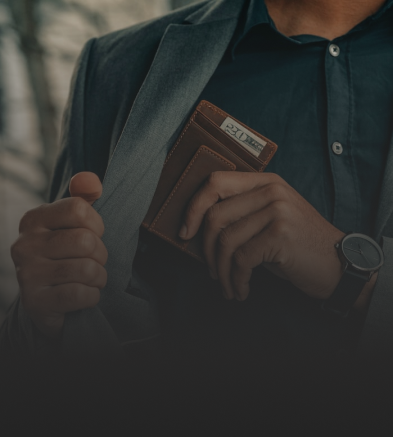
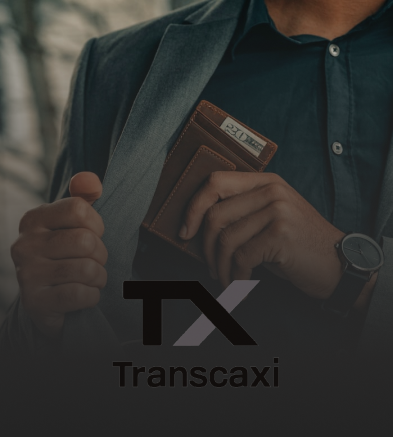
Created Authentication Forms

Changed region(s): [[0.3053, 0.6247, 0.6718, 0.8032], [0.3053, 0.8032, 0.7328, 0.8924]]

diff --git a/lib/widgets/forms/sign_up_form.dart b/lib/widgets/forms/sign_up_form.dart
@@ -1,0 +1,89 @@
+import 'package:flutter/material.dart';
+import 'package:transacxi/constants/managers/spacing_manager.dart';
+
+import '../../constants/managers/asset_manager.dart';
+import '../../constants/managers/string_manager.dart';
+import '../../constants/managers/text_style_manager.dart';
+import '../../constants/screen_size.dart';
+import '../../handlers/auth_view_handler.dart';
+
+class SignUpForm extends StatefulWidget {
+  const SignUpForm({super.key});
+
+  @override
+  State<SignUpForm> createState() => _SignUpFormState();
+}
+
+class _SignUpFormState extends State<SignUpForm> {
+  final _authViewState = AuthViewStateHandler();
+  @override
+  Widget build(BuildContext context) {
+    return SizedBox(
+      width: ScreenSize.width,
+      height: ScreenSize.height,
+      child: Stack(
+        alignment: Alignment.center,
+        children: [
+          Positioned(top: 0, child: Image.asset(AssetManager.signUpBackground)),
+          Positioned(
+            top: SpacingManager.h315.height,
+            child: Container(
+              width: ScreenSize.width,
+              padding: EdgeInsets.symmetric(horizontal: SpacingManager.w30.width!),
+              child: Column(
+                children: [
+                  Align(
+                    alignment: Alignment.centerLeft,
+                    child: Container(
+                      margin: EdgeInsets.only(left: SpacingManager.w10.width!),
+                      padding: EdgeInsets.only(
+                        top: SpacingManager.h10.height!,
+                        bottom: SpacingManager.h10.height!,
+                        left: SpacingManager.w10.width!,
+                        right: SpacingManager.w50.width!,
+                      ),
+                      decoration: const BoxDecoration(border: Border(bottom: BorderSide(color: Color(0xFFb9b6b6)))),
+                      child: const Text(StringManager.signUp),
+                    ),
+                  ),
+                  SpacingManager.h20,
+                  const TextField(decoration: InputDecoration(hintText: StringManager.fulName)),
+                  SpacingManager.h10,
+                  const TextField(decoration: InputDecoration(hintText: StringManager.emailAddress)),
+                  SpacingManager.h10,
+                  const TextField(decoration: InputDecoration(hintText: StringManager.password)),
+                  SpacingManager.h10,
+                  const TextField(decoration: InputDecoration(hintText: StringManager.confirmPassword)),
+                  SpacingManager.h20,
+                  MaterialButton(
+                    onPressed: () {},
+                    color: const Color(0xFFFF0000),
+                    shape: const StadiumBorder(),
+                    padding: EdgeInsets.symmetric(vertical: SpacingManager.h10.height!),
+                    minWidth: SpacingManager.w316.width,
+                    child: const Text(StringManager.signUp, style: TextStyles.w400s11),
+                  ),
+                  SpacingManager.h30,
+                  Row(
+                    mainAxisAlignment: MainAxisAlignment.center,
+                    children: [
+                      SizedBox(width: SpacingManager.w20.width, child: const Divider()),
+                      SpacingManager.w10,
+                      const Text(StringManager.haveAccount, style: TextStyles.w500s10),
+                      GestureDetector(
+                        onTap: _authViewState.changeCurrentView,
+                        child: Text(StringManager.login, style: TextStyles.w500s10.copyWith(color: const Color(0xFFFF0000))),
+                      ),
+                      SpacingManager.w10,
+                      SizedBox(width: SpacingManager.w20.width, child: const Divider()),
+                    ],
+                  )
+                ],
+              ),
+            ),
+          ),
+        ],
+      ),
+    );
+  }
+}

diff --git a/lib/widgets/forms/login_form.dart b/lib/widgets/forms/login_form.dart
@@ -1,0 +1,85 @@
+import 'package:flutter/material.dart';
+
+import '../../constants/managers/asset_manager.dart';
+import '../../constants/managers/spacing_manager.dart';
+import '../../constants/managers/string_manager.dart';
+import '../../constants/managers/text_style_manager.dart';
+import '../../constants/screen_size.dart';
+import '../../handlers/auth_view_handler.dart';
+
+class LoginForm extends StatefulWidget {
+  const LoginForm({super.key});
+
+  @override
+  State<LoginForm> createState() => _LoginFormState();
+}
+
+class _LoginFormState extends State<LoginForm> {
+  final _authViewState = AuthViewStateHandler();
+  @override
+  Widget build(BuildContext context) {
+    return SizedBox(
+      width: ScreenSize.width,
+      height: ScreenSize.height,
+      child: Stack(
+        alignment: Alignment.center,
+        children: [
+          Positioned(top: 0, child: Image.asset(AssetManager.loginBackground)),
+          Positioned(
+            top: SpacingManager.h435.height,
+            child: Container(
+              width: ScreenSize.width,
+              padding: EdgeInsets.symmetric(horizontal: SpacingManager.w30.width!),
+              child: Column(
+                children: [
+                  Align(
+                    alignment: Alignment.centerLeft,
+                    child: Container(
+                      margin: EdgeInsets.only(left: SpacingManager.w10.width!),
+                      padding: EdgeInsets.only(
+                        top: SpacingManager.h10.height!,
+                        bottom: SpacingManager.h10.height!,
+                        left: SpacingManager.w10.width!,
+                        right: SpacingManager.w50.width!,
+                      ),
+                      decoration: const BoxDecoration(border: Border(bottom: BorderSide(color: Color(0xFFb9b6b6)))),
+                      child: const Text(StringManager.login),
+                    ),
+                  ),
+                  SpacingManager.h20,
+                  const TextField(decoration: InputDecoration(hintText: StringManager.emailAddress)),
+                  SpacingManager.h10,
+                  const TextField(decoration: InputDecoration(hintText: StringManager.password)),
+                  SpacingManager.h20,
+                  MaterialButton(
+                    onPressed: () {},
+                    color: const Color(0xFFFF0000),
+                    shape: const StadiumBorder(),
+                    padding: EdgeInsets.symmetric(vertical: SpacingManager.h10.height!),
+                    minWidth: SpacingManager.w316.width,
+                    child: const Text(StringManager.login, style: TextStyles.w400s11),
+                  ),
+                  SpacingManager.h30,
+                  Row(
+                    mainAxisAlignment: MainAxisAlignment.center,
+                    children: [
+                      SizedBox(width: SpacingManager.w20.width, child: const Divider()),
+                      SpacingManager.w10,
+                      const Text(StringManager.dontHaveAccount, style: TextStyles.w500s10),
+                      GestureDetector(
+                        onTap: _authViewState.changeCurrentView,
+                        child: Text(StringManager.signup, style: TextStyles.w500s10.copyWith(color: const Color(0xFFFF0000))),
+                      ),
+                      SpacingManager.w10,
+                      SizedBox(width: SpacingManager.w20.width, child: const Divider()),
+                    ],
+                  )
+                ],
+              ),
+            ),
+          ),
+        ],
+      ),
+    );
+  }
+}

diff --git a/lib/constants/managers/spacing_manager.dart b/lib/constants/managers/spacing_manager.dart
@@ -9,10 +9,13 @@ class SpacingManager {
   static final h10 = SizedBox(height: ScreenSize.height * 0.012);
   static final h15 = SizedBox(height: ScreenSize.height * 0.018);
   static final h18 = SizedBox(height: ScreenSize.height * 0.021);
+  static final h20 = SizedBox(height: ScreenSize.height * 0.024);
   static final h30 = SizedBox(height: ScreenSize.height * 0.034);
   static final h40 = SizedBox(height: ScreenSize.height * 0.047);
   static final h55 = SizedBox(height: ScreenSize.height * 0.064);
   static final h67 = SizedBox(height: ScreenSize.height * 0.079);
+  static final h315 = SizedBox(height: ScreenSize.height * 0.37);
+  static final h435 = SizedBox(height: ScreenSize.height * 0.511);
 
   static final w10 = SizedBox(width: ScreenSize.width * 0.025);
   static final w15 = SizedBox(width: ScreenSize.width * 0.038);
@@ -20,4 +23,5 @@ class SpacingManager {
   static final w25 = SizedBox(width: ScreenSize.width * 0.064);
   static final w30 = SizedBox(width: ScreenSize.width * 0.076);
   static final w50 = SizedBox(width: ScreenSize.width * 0.127);
+  static final w316 = SizedBox(width: ScreenSize.width * 0.804);
 }

diff --git a/lib/screens/auth_screen.dart b/lib/screens/auth_screen.dart
@@ -1,0 +1,34 @@
+import 'package:flutter/material.dart';
+
+import '../handlers/auth_view_handler.dart';
+import '../widgets/forms/login_form.dart';
+import '../widgets/forms/sign_up_form.dart';
+
+class AuthScreen extends StatefulWidget {
+  const AuthScreen({super.key});
+
+  @override
+  State<StatefulWidget> createState() => _AuthScreenState();
+}
+
+class _AuthScreenState extends State<AuthScreen> {
+  final _authViewState = AuthViewStateHandler();
+  @override
+  Widget build(BuildContext context) {
+    return SafeArea(
+      child: Scaffold(
+        body: ValueListenableBuilder(
+          valueListenable: _authViewState,
+          builder: (context, value, child) {
+            return AnimatedCrossFade(
+              firstChild: const LoginForm(),
+              secondChild: const SignUpForm(),
+              crossFadeState: value,
+              duration: const Duration(milliseconds: 400),
+            );
+          },
+        ),
+      ),
+    );
+  }
+}

diff --git a/lib/theme/app_theme.dart b/lib/theme/app_theme.dart
@@ -1,4 +1,5 @@
 import 'package:flutter/material.dart';
+import 'package:transacxi/constants/managers/text_style_manager.dart';
 
 class AppTheme {
   AppTheme._();
@@ -17,7 +18,16 @@ class AppTheme {
       surface: Color.fromRGBO(51, 51, 51, 1),
       onSurface: Color.fromRGBO(255, 255, 255, 1),
     ),
+    buttonTheme: const ButtonThemeData(shape: StadiumBorder()),
     bottomNavigationBarTheme: const BottomNavigationBarThemeData(showSelectedLabels: false, showUnselectedLabels: false, type: BottomNavigationBarType.fixed),
+    inputDecorationTheme: InputDecorationTheme(
+        fillColor: const Color(0xFFB9B6B6),
+        filled: true,
+        border: InputBorder.none,
+        enabledBorder: InputBorder.none,
+        disabledBorder: InputBorder.none,
+        errorBorder: InputBorder.none,
+        hintStyle: TextStyles.w400s9.copyWith(color: const Color(0xFF888888))),
     useMaterial3: true,
   );
 }

diff --git a/lib/constants/managers/string_manager.dart b/lib/constants/managers/string_manager.dart
@@ -2,8 +2,17 @@ class StringManager{
   StringManager._();
 
   static const addMoney = "Add Money";
+  static const confirmPassword = "Confirm Password";
+  static const dontHaveAccount = "I don't have an account ";
+  static const haveAccount = "Already have an account ";
+  static const emailAddress = "Email Address";
+  static const fulName = "Fullname";
+  static const login = "Login";
   static const naira = "₦";
+  static const password = "Password";
   static const recent = "Recent";
+  static const signup = "sign up";
+  static const signUp = "Sign Up";
   static const transfer = "Transfer";
   static const transactionHistory = "Transaction History";
 }

diff --git a/lib/handlers/auth_view_handler.dart b/lib/handlers/auth_view_handler.dart
@@ -1,0 +1,19 @@
+import 'dart:developer';
+
+import 'package:flutter/material.dart';
+
+class AuthViewStateHandler extends ValueNotifier<CrossFadeState> {
+  AuthViewStateHandler._internal() : super(CrossFadeState.showFirst);
+  static final _instance = AuthViewStateHandler._internal();
+  factory AuthViewStateHandler() => _instance;
+
+  void changeCurrentView() {
+    log(value.toString());
+    if (value == CrossFadeState.showFirst) {
+      value = CrossFadeState.showSecond;
+      return;
+    }
+    value = CrossFadeState.showFirst;
+    return;
+  }
+}

diff --git a/lib/main.dart b/lib/main.dart
@@ -1,7 +1,7 @@
 import 'package:flutter/material.dart';
 
 import 'helpers/global_variables.dart';
-import 'screens/navigation_screen.dart';
+import 'screens/auth_screen.dart';
 import 'theme/app_theme.dart';
 
 void main() {
@@ -16,7 +16,7 @@ class MyApp extends StatelessWidget {
     return MaterialApp(
       title: "Transcaxi",
       theme: AppTheme.primary,
-      home: const NavigationScreen(),
+      home: const AuthScreen(),
       navigatorKey: navigationKey,
     );
   }

diff --git a/lib/handlers/navigation_screen_handler.dart b/lib/handlers/navigation_screen_handler.dart
@@ -1,9 +1,9 @@
 import 'package:flutter/material.dart';
 
-class NavigationViewStateHandler extends ValueNotifier<int>{
-  NavigationViewStateHandler():super(0);
+class NavigationViewStateHandler extends ValueNotifier<int> {
+  NavigationViewStateHandler() : super(0);
 
-   void changeCurrentView(int newValue){
+  void changeCurrentView(int newValue) {
     value = newValue;
-   } 
+  }
 }

diff --git a/lib/constants/managers/text_style_manager.dart b/lib/constants/managers/text_style_manager.dart
@@ -1,0 +1,7 @@
+import 'package:flutter/material.dart';
+
+class TextStyles {
+  static const w400s9 = TextStyle(fontWeight: FontWeight.w400, fontSize: 9, height: 1.5);
+  static const w400s11 = TextStyle(fontWeight: FontWeight.w400, fontSize: 11, height: 1.5);
+  static const w500s10 = TextStyle(fontWeight: FontWeight.w500, fontSize: 10, height: 1.5);
+}

diff --git a/lib/screens/navigation_screen.dart b/lib/screens/navigation_screen.dart
@@ -20,7 +20,7 @@ class _NavigationScreenState extends State<NavigationScreen> {
   }
 
   Icon get _homeIcon {
-    if (_viewHanlder.value != 3) return const Icon(Icons.home_outlined);
+    if (_viewHanlder.value == 3) return const Icon(Icons.home_outlined);
     return const Icon(Icons.home_filled);
   }
 
